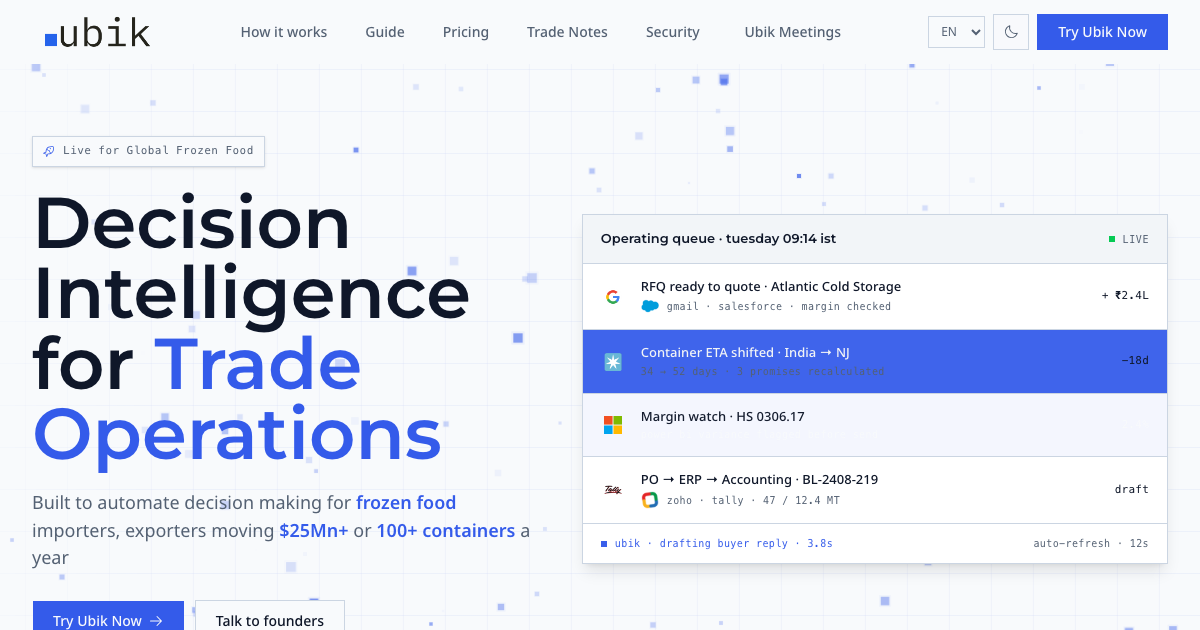
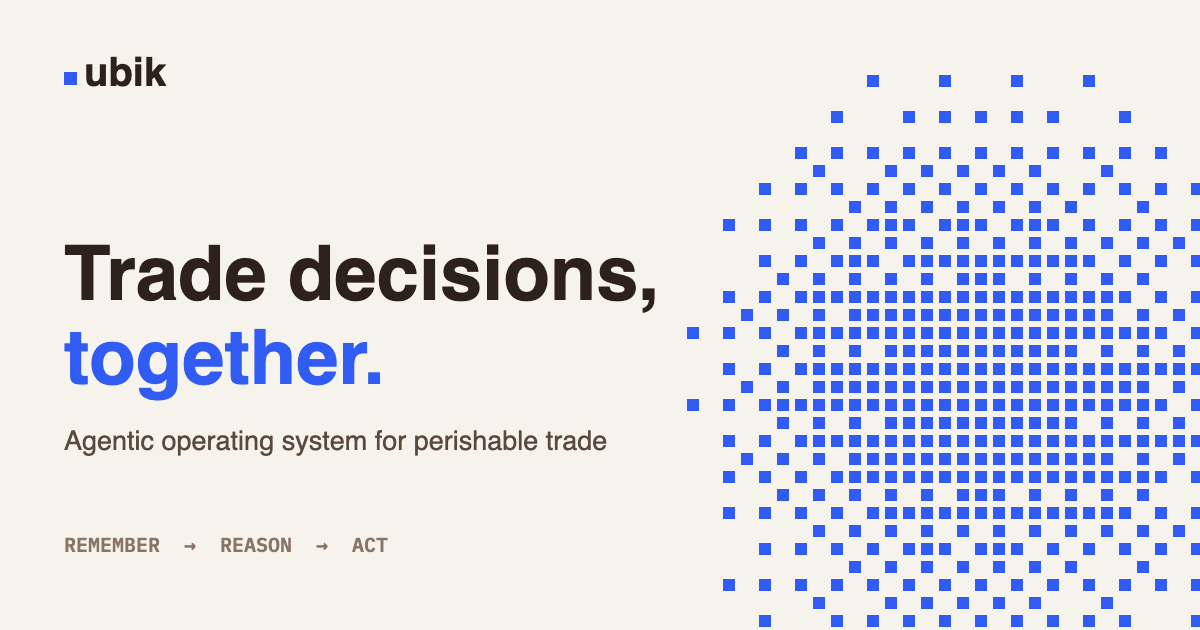
Refresh hero, section copy, share card, and social meta
Hero:
- Hero copy is now paired to the hero artwork. The scene was picked inside
  ParticleField, so Index could not see which one rendered; the pick moves up to
  Index and is passed down, and ?scene=wave|ship|harvest pins a pair for review.
  Three pairs: "Trade decisions, together." (anti-wrapper subhead),
  "Trade operators, unite.", and "Every lot, accounted for."

Sections:
- Operating loop is now "Decision Intelligence for Food" with a caption. This
  also matches the phrase the old share card was showing, so the page and the
  card finally agree.
- Team bios are background rather than job description, with roles set to
  Product Design/Ops/GTM and AI/ML/Product Engineering.

Social meta (the stale-share-card bug):
- og-image.png regenerated at 1200x630 in the current design system. The old one
  was from May 31 and showed a hero that no longer exists.
- index.html and the React <Seo> disagreed on title and description. Scrapers
  that do not run JS (WhatsApp, LinkedIn, Slack, most LLM crawlers) only read
  index.html, so the page had two identities depending on the reader. Both now
  match.
- og:image was root-relative, which is out of spec and unresolvable for some
  scrapers. Now absolute, with secure_url, type, width, height and a ?v=2
  cache-buster so the caches drop the old artwork. Seo.tsx absolutizes any path.

Layout fixes:
- Deploy and loop card titles were off by a row. Each card is its own grid and
[…]

diff --git a/src/pages/Index.tsx b/src/pages/Index.tsx
@@ -7,9 +7,37 @@ import { Seo } from "@/components/seo/Seo";
 import { PageShell } from "@/components/landing/PageShell";
 import { ParticleField } from "@/components/landing/ParticleField";
 import { DitherTile } from "@/components/landing/DitherTile";
+import { pickScene, type HeroScene } from "@/lib/hero-scenes";
 import { featuredBlogPost } from "@/lib/landing-content";
 import { externalLinks } from "@/lib/links";
 import { trackEvent } from "@/lib/posthog";
+
+/**
+ * Hero copy is paired to the hero artwork, so the headline and the picture are
+ * making the same point. Keyed by scene id from `hero-scenes`; `?scene=` pins a
+ * pair for review. `lead`/`emphasis` split because the last clause is set in
+ * brand blue.
+ */
+const heroCopy: Record<string, { lead: string; emphasis: string; subhead: string }> = {
+  wave: {
+    lead: "Trade decisions,",
+    emphasis: "together.",
+    subhead:
+      "Ubik doesn't just wrap your apps in a chat box. It trains the memory, models and agents that do the work."
+  },
+  ship: {
+    lead: "Trade operators,",
+    emphasis: "unite.",
+    subhead:
+      "Ubik clears the manual work so ERPs, inboxes and vendor threads stop running your day."
+  },
+  harvest: {
+    lead: "Every lot,",
+    emphasis: "accounted for.",
+    subhead:
+      "Ubik keeps the lot, the spec and the promise attached, so a claim six weeks later still arrives with its evidence."
+  }
+};
 
 /* The loop verb lives on the card chip, not in a caption strip above the grid.
    One occurrence each: the chip labels its own card, so a separate
@@ -240,17 +268,20 @@ const workflowTeams = [
   }
 ] as const;
 
+/* Bios are background, not job description. What each person does at Ubik is
+   already the whole page above them; what a buyer cannot tell from the product
+   is who built it and what they saw before this. */
 const teamProfiles = [
   {
     name: "Shubhranshu Jha",
-    role: "Product GTM",
-    bio: "Turns complex operating context into calm products, integrations, and dependable workflows.",
+    role: "Product Design, Ops & GTM",
+    bio: "Fractional operator and venture builder. Raised $10M+ and shipped as much in ARR, pallets and shelves across sustainability, commerce and D2C.",
     linkedin: "https://www.linkedin.com/in/11shubhranshu"
   },
   {
     name: "Sai Kiran",
-    role: "Agent systems",
-    bio: "Builds and ships the workflow layer that carries trade decisions safely into the systems teams use.",
+    role: "AI/ML & Product Engineering",
+    bio: "Scaled engineering across mobility, commerce and finance unicorns. Then explored AI-native orgs and built foundation models for healthcare.",
     linkedin: "https://www.linkedin.com/in/saikiraniitb/"
   }
 ] as const;
@@ -823,8 +854,11 @@ function OperatingLoop() {
       <div className="container-page py-16 sm:py-24">
         <div className="layer-head">
           <h2 id="home-layers-title" className="home-section-title">
-            Supercharge Perishable Trade
+            Decision Intelligence for Food
           </h2>
+          <p className="layer-caption">
+            How Ubik helps importers and exporters take decisions in days instead of weeks.
+          </p>
         </div>
 
         <div className="loop-grid" aria-label="The three layers of Ubik's operating loop">
@@ -879,13 +913,22 @@ function DeployProof() {
 }
 
 export default function Index() {
+  /* Picked once here rather than inside ParticleField so the headline and the
+     artwork always agree. Falls back to the wave copy for an unknown id. */
+  const [scene] = useState<HeroScene>(() => pickScene());
+  const hero = heroCopy[scene.id] ?? heroCopy.wave;
+
   return (
     <PageShell>
+      {/* Kept identical to the static tags in index.html on purpose. Scrapers
+          that do not run JS (WhatsApp, LinkedIn, Slack, most LLM crawlers) only
+          ever see index.html, so a different title here meant the page had two
+          competing identities depending on who was reading it. */}
       <Seo
-        title="Ubik | Trade operations, held together"
-        description="Ubik connects the messages, lots, approvals, and buyer promises that break apart across a shipment—so trade teams can make the next decision with confidence."
-        image="/og-image.png"
-        imageAlt="Ubik for perishable trade operations"
+        title="Ubik | Agentic operating system for perishable trade"
+        description="Turn scattered trade signals into reviewed decisions your team can approve, trace, and reuse."
+        image="/og-image.png?v=2"
+        imageAlt="Ubik: trade decisions, together. An agentic operating system for perishable trade."
       />
       <JsonLd
         data={{
@@ -899,18 +942,16 @@ export default function Index() {
       />
 
       <main className="home-minimal overflow-hidden">
-        <ParticleField />
+        <ParticleField scene={scene} />
 
         <section className="home-hero">
           <div className="home-collision-grid" aria-hidden="true" />
           <div className="container-page relative z-10 py-16 sm:py-24 lg:min-h-[calc(100svh-4rem)] lg:py-20">
             <div className="max-w-5xl">
-              <h1 className="home-display max-w-[10ch]">
-                Trade decisions, <em>together.</em>
+              <h1 className="home-display max-w-[12ch]">
+                {hero.lead} <em>{hero.emphasis}</em>
               </h1>
-              <p className="mt-7 max-w-xl text-lg leading-8 text-foreground/72">
-                Ubik pulls the messages, approvals, and buyer promises back into one calm operating view.
-              </p>
+              <p className="mt-7 max-w-xl text-lg leading-8 text-foreground/72">{hero.subhead}</p>
               <div className="mt-9 flex flex-wrap gap-3">
                 <Button asChild size="lg" className="home-primary-action">
                   <a href={externalLinks.app} onClick={() => trackEvent("cta_clicked", { cta: "try_ubik", location: "hero" })}>

diff --git a/src/lib/deploy-scenes.ts b/src/lib/deploy-scenes.ts
@@ -43,54 +43,78 @@ const drawPremises: DeploySceneDraw = (ctx, w, h) => {
 
 /** Your cloud — a VPC boundary with instances inside it. */
 const drawCloud: DeploySceneDraw = (ctx, w, h) => {
+  // Geometry is derived from the centre out so the whole composition sits in
+  // the middle of the tile rather than drifting toward the top-left.
+  const boxW = w * 0.76;
+  const boxH = h * 0.62;
+  const boxX = (w - boxW) / 2;
+  const boxY = (h - boxH) / 2;
+
   // Perimeter, drawn as a dashed boundary: the point is that it is *yours*.
   ink(ctx, 0.85);
   ctx.lineWidth = Math.max(2, w * 0.018);
   ctx.setLineDash([w * 0.05, w * 0.035]);
-  ctx.strokeRect(w * 0.08, h * 0.16, w * 0.84, h * 0.68);
+  ctx.strokeRect(boxX, boxY, boxW, boxH);
   ctx.setLineDash([]);
 
-  // Instances inside the boundary — a small grid of squares.
+  // Instances inside the boundary, centred as a block. Even ink across all six:
+  // the old alternating 0.55 dithered most of them away, which read as a
+  // lopsided scatter rather than a grid.
   const cols = 3;
   const rows = 2;
-  const bw = w * 0.17;
-  const bh = h * 0.17;
+  const gapX = w * 0.05;
+  const gapY = h * 0.09;
+  const bw = (boxW * 0.78 - gapX * (cols - 1)) / cols;
+  const bh = (boxH * 0.62 - gapY * (rows - 1)) / rows;
+  const gridW = bw * cols + gapX * (cols - 1);
+  const gridH = bh * rows + gapY * (rows - 1);
+  const startX = (w - gridW) / 2;
+  const startY = (h - gridH) / 2;
+
   for (let r = 0; r < rows; r += 1) {
     for (let c = 0; c < cols; c += 1) {
-      ink(ctx, (r + c) % 2 === 0 ? 0.95 : 0.55);
-      ctx.fillRect(w * 0.18 + c * (bw + w * 0.055), h * 0.29 + r * (bh + h * 0.12), bw, bh);
+      ink(ctx, (r + c) % 2 === 0 ? 0.95 : 0.78);
+      ctx.fillRect(startX + c * (bw + gapX), startY + r * (bh + gapY), bw, bh);
     }
   }
 };
 
 /** Managed — the same workload, with Ubik holding it up. */
 const drawManaged: DeploySceneDraw = (ctx, w, h) => {
-  // Workload block.
+  // Whole composition is balanced around the tile's centre: block above the
+  // midline, brackets and mark below it, so it no longer sits top-heavy.
+  const blockW = w * 0.52;
+  const blockH = h * 0.3;
+  const blockX = (w - blockW) / 2;
+  const blockY = h * 0.14;
+
   ink(ctx, 0.95);
-  ctx.fillRect(w * 0.24, h * 0.16, w * 0.52, h * 0.34);
+  ctx.fillRect(blockX, blockY, blockW, blockH);
   ctx.save();
   ctx.globalCompositeOperation = "destination-out";
   for (let u = 0; u < 3; u += 1) {
     ctx.fillStyle = "rgba(0,0,0,0.85)";
-    ctx.fillRect(w * 0.3, h * 0.22 + u * h * 0.1, w * 0.4, h * 0.035);
+    ctx.fillRect(blockX + blockW * 0.12, blockY + blockH * (0.18 + u * 0.28), blockW * 0.76, blockH * 0.12);
   }
   ctx.restore();
 
-  // The hands under it: two supporting brackets rising to meet the block.
-  ink(ctx, 0.6);
-  ctx.lineWidth = Math.max(2, w * 0.022);
+  // The hands under it. Heavier ink and a thicker stroke than before: at this
+  // scale a 0.6 hairline dithered away almost entirely, so the block looked
+  // like it was floating with nothing beneath it.
+  ink(ctx, 0.82);
+  ctx.lineWidth = Math.max(3, w * 0.032);
   ctx.beginPath();
-  ctx.moveTo(w * 0.14, h * 0.86);
-  ctx.quadraticCurveTo(w * 0.16, h * 0.58, w * 0.4, h * 0.55);
+  ctx.moveTo(w * 0.16, h * 0.84);
+  ctx.quadraticCurveTo(w * 0.2, h * 0.6, w * 0.42, h * 0.57);
   ctx.stroke();
   ctx.beginPath();
-  ctx.moveTo(w * 0.86, h * 0.86);
-  ctx.quadraticCurveTo(w * 0.84, h * 0.58, w * 0.6, h * 0.55);
+  ctx.moveTo(w * 0.84, h * 0.84);
+  ctx.quadraticCurveTo(w * 0.8, h * 0.6, w * 0.58, h * 0.57);
   ctx.stroke();
 
   // Ubik's mark sitting at the base — the operator on duty.
   ink(ctx, 1);
-  ctx.fillRect(w * 0.44, h * 0.76, w * 0.12, h * 0.12);
+  ctx.fillRect(w * 0.44, h * 0.72, w * 0.12, h * 0.13);
 };
 
 /** Organisational memory — stacked, inset ledger bars with punched-out rows. */

diff --git a/index.html b/index.html
@@ -16,14 +16,22 @@
       property="og:description"
       content="Turn scattered trade signals into reviewed decisions your team can approve, trace, and reuse."
     />
-    <meta property="og:image" content="/og-image.png" />
-    <meta property="og:image:alt" content="Ubik homepage preview for frozen food trade operations" />
+    <!-- Absolute URLs: the OG spec requires them, and several scrapers will not
+         resolve a root-relative path. Width/height let a card reserve the right
+         box before the image loads. Bump ?v= when the artwork changes so
+         WhatsApp/LinkedIn/Slack drop their cached copy. -->
+    <meta property="og:image" content="https://theubik.com/og-image.png?v=2" />
+    <meta property="og:image:secure_url" content="https://theubik.com/og-image.png?v=2" />
+    <meta property="og:image:type" content="image/png" />
+    <meta property="og:image:width" content="1200" />
+    <meta property="og:image:height" content="630" />
+    <meta property="og:image:alt" content="Ubik: trade decisions, together. An agentic operating system for perishable trade." />
     <meta property="og:site_name" content="Ubik" />
     <meta name="twitter:card" content="summary_large_image" />
     <meta name="twitter:title" content="Ubik | Agentic operating system for perishable trade" />
     <meta name="twitter:description" content="Turn scattered trade signals into reviewed decisions your team can approve, trace, and reuse." />
-    <meta name="twitter:image" content="/og-image.png" />
-    <meta name="twitter:image:alt" content="Ubik homepage preview for frozen food trade operations" />
+    <meta name="twitter:image" content="https://theubik.com/og-image.png?v=2" />
+    <meta name="twitter:image:alt" content="Ubik: trade decisions, together. An agentic operating system for perishable trade." />
     <meta property="og:type" content="website" />
     <meta property="og:url" content="https://theubik.com/" />
     <link rel="canonical" href="https://theubik.com/" />

diff --git a/src/components/seo/Seo.tsx b/src/components/seo/Seo.tsx
@@ -14,6 +14,12 @@ function setMeta(selector: string, attr: string, value: string) {
   if (el) el.setAttribute(attr, value);
 }
 
+const SITE_ORIGIN = "https://theubik.com";
+
+/** og:image must be absolute — several scrapers will not resolve "/og-image.png". */
+const absoluteUrl = (value: string) =>
+  value.startsWith("http") ? value : `${SITE_ORIGIN}${value.startsWith("/") ? "" : "/"}${value}`;
+
 export function Seo({ title, description, canonical = "https://theubik.com/", image, imageAlt, type = "website" }: SeoProps) {
   useEffect(() => {
     document.title = title;
@@ -25,8 +31,10 @@ export function Seo({ title, description, canonical = "https://theubik.com/", im
     setMeta('meta[name="twitter:title"]', "content", title);
     setMeta('meta[name="twitter:description"]', "content", description);
     if (image) {
-      setMeta('meta[property="og:image"]', "content", image);
-      setMeta('meta[name="twitter:image"]', "content", image);
+      const resolved = absoluteUrl(image);
+      setMeta('meta[property="og:image"]', "content", resolved);
+      setMeta('meta[property="og:image:secure_url"]', "content", resolved);
+      setMeta('meta[name="twitter:image"]', "content", resolved);
       if (imageAlt) {
         setMeta('meta[property="og:image:alt"]', "content", imageAlt);
         setMeta('meta[name="twitter:image:alt"]', "content", imageAlt);

diff --git a/src/index.css b/src/index.css
@@ -3767,7 +3767,11 @@
 .home-deploy-card {
   position: relative;
   display: grid;
-  grid-template-rows: auto 1fr auto auto;
+  /* Slack goes to the LAST row, not the tile row. Each card is its own grid, so
+     with 1fr on the tile the card with shorter copy (02, two lines vs three)
+     pooled its extra height above the heading and pushed the title down out of
+     line with 01 and 03. */
+  grid-template-rows: auto auto auto 1fr;
   min-width: 0;
   min-height: 17rem;
   overflow: hidden;
@@ -4674,6 +4678,14 @@
   max-width: 46rem;
 }
 
+.layer-caption {
+  max-width: 52ch;
+  font-size: 1.02rem;
+  font-weight: 520;
+  line-height: 1.6;
+  color: hsl(var(--foreground) / 0.74);
+}
+
 .loop-grid {
   display: grid;
   min-width: 0;
@@ -4686,7 +4698,9 @@
 .loop-card {
   position: relative;
   display: grid;
-  grid-template-rows: auto 1fr auto auto;
+  /* Same reason as .home-deploy-card: slack belongs below the copy so the three
+     headings sit on one line regardless of how long each card's copy runs. */
+  grid-template-rows: auto auto auto 1fr;
   min-width: 0;
   min-height: 17rem;
   overflow: hidden;

diff --git a/src/components/landing/ParticleField.tsx b/src/components/landing/ParticleField.tsx
@@ -200,10 +200,15 @@ function buildField(
   };
 }
 
-export function ParticleField() {
+/**
+ * `scene` is passed in so the hero headline can describe the artwork on screen.
+ * Index owns the pick; the local fallback keeps the component usable on its own.
+ */
+export function ParticleField({ scene: sceneProp }: { scene?: HeroScene } = {}) {
   const canvasRef = useRef<HTMLCanvasElement | null>(null);
   const [ready, setReady] = useState(false);
-  const [scene] = useState<HeroScene>(() => pickScene());
+  const [fallbackScene] = useState<HeroScene>(() => pickScene());
+  const scene = sceneProp ?? fallbackScene;
 
   useEffect(() => {
     const canvas = canvasRef.current;
